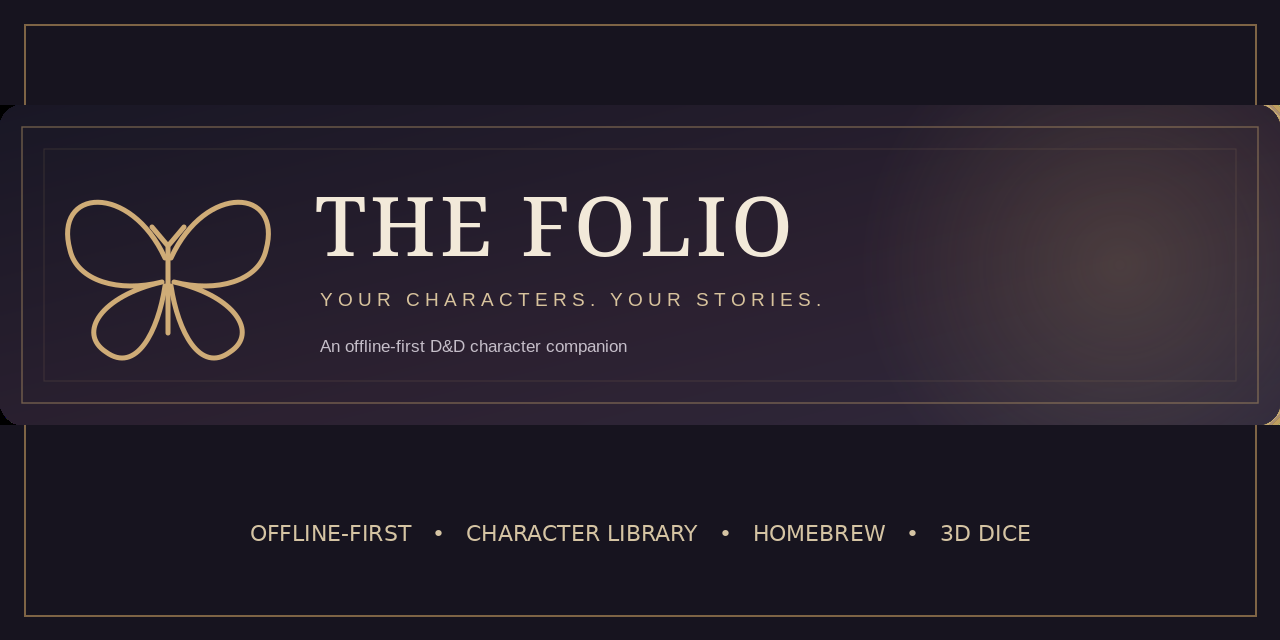
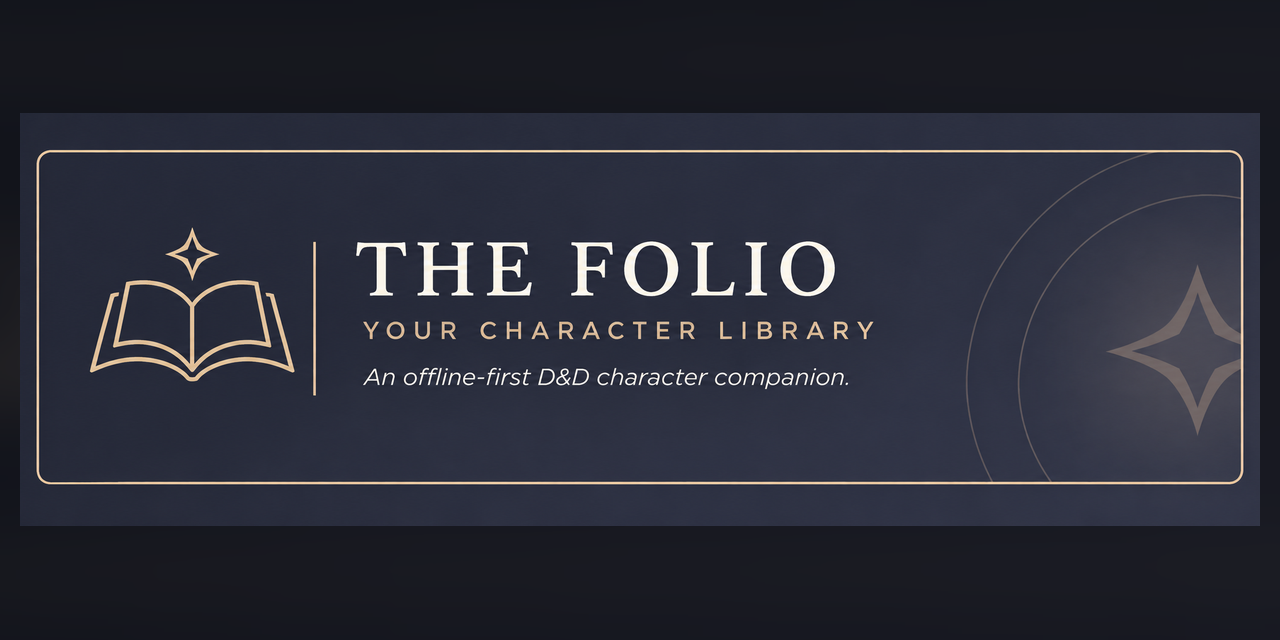
Update README

Changed region(s): [[0.0, 0.1562, 1.0, 0.8438], [0.0, 0.1562, 0.0312, 0.1875]]

diff --git a/README.md b/README.md
@@ -1,10 +1,10 @@
 <div align="center">
 
-![The Folio banner](docs/assets/folio-banner.svg)
+![The Folio — open-book emblem and character-library banner](docs/assets/folio-banner.png)
 
 # The Folio
 
-**Your characters. Your campaigns. Your stories.**
+**Your characters. Your stories.**
 
 An offline-first, customizable D&D character-sheet companion built for quick reference and real play at the table.
 
@@ -21,9 +21,11 @@ An offline-first, customizable D&D character-sheet companion built for quick ref
 
 ## Why The Folio?
 
-The Folio combines the familiar anatomy of a tabletop character sheet with the conveniences of a digital companion. Keep HP, features, spells, attacks, and notes close at hand—without having to sign in, host a server, or subscribe to a service.
+I started The Folio because I wanted an easier way to stay organized during D&D sessions. Between a character sheet, spell descriptions, inventory, and notes from previous games, it was easy for important details to end up scattered around. I wanted the familiar layout of a traditional character sheet, with a few digital conveniences that made it easier to focus on actually playing.
 
-Started as a bespoke sheet for **Pip / Papillon**, the project now supports a library of distinct characters and campaign folders. Each character can have its own appearance, rules data, and saved state. Pip's butterfly-and-masquerade theme is a preset, **not** the default for every character.
+What began as a tool for one rather disorganized player grew into something I could reuse for different characters and campaigns. The Folio keeps HP, features, spells, attacks, equipment, and notes together, with automatic local saving and optional digital dice. It runs offline, with no account, server, or subscription needed to play.
+
+**Pip / Papillon** was the original character I built it around and is still included as an example. His butterfly-and-masquerade theme is one option, not the default: each character can have their own build, homebrew, and appearance.
 
 ## Features
 
